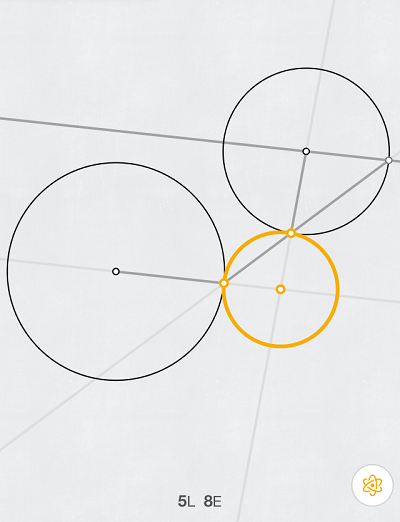
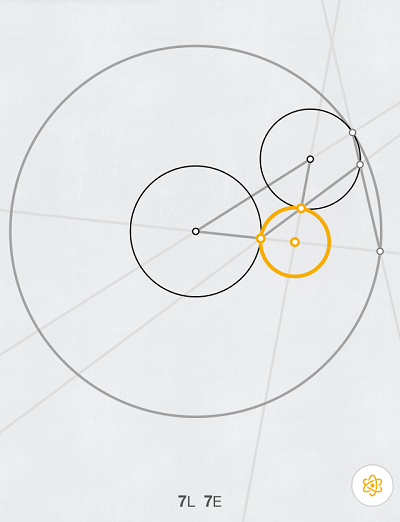
Update 13.2 7E solution, add English version of readme.

diff --git a/README.md b/README.md
@@ -1,3 +1,5 @@
+# 中文说明
+
 对应 Apple app store 里的 Euclidea 游戏。
 
 本Repo页面维护团队：  
@@ -12,11 +14,38 @@
 - [v1版本链接(全最优解更新完成)](https://mathsfans.github.io/Euclidea/v1/)  
 
 重要解法更新：
+- (2017-11-30) 13.2 7E新纪录解法。 
 - (2017-10-04) 按照iOS 3.37版重新排列题目顺序。 
 - (2017-07-10) 2.8 5E新纪录解法。 
-- (2017-07-02) 按照最新iOS版本更新v1所有题号以及全部最优解法。  
+- (2017-07-02) 按照iOS 3.37版更新v1所有题号以及全部最优解法。  
 - (2017-04-12) 11.3 10E新纪录解法。  
 - (2017-02-28) 8.8 5E新纪录解法。  
 - (2017-01-19) 5.5 5E新纪录解法。  
 - (2016-12-02) 7.3 3L新纪录解法。  
 - (2016-12-02) v1版本解法更正，文字描述更新。  
+
+---
+
+# ENGLISH
+
+This repo provides a full collection of optimal solutions for the iOS geometric game "Euclidea".
+
+This repo is mainly maintained by
+- [@Tairraos](https://github.com/tairraos)  
+- [@gsdevcn](https://github.com/gsdevcn)  
+- [@negiizhao](https://github.com/negiizhao) 
+
+The solution pages:
+- [v2 (better UI, solutions updating...)](https://mathsfans.github.io/Euclidea/)  
+- [v1 (all optimal solutions, although descriptions are in Chinese)](https://mathsfans.github.io/Euclidea/v1/)  
+
+Version history：
+- (2017-11-30) New record update: 13.2 7E. 
+- (2017-10-04) Reorder v1 all problems according to iOS v3.37. 
+- (2017-07-10) New record update: 2.8 5E. 
+- (2017-07-02) Reorder v1 all problems and optimal solutions according to iOS v3.30.  
+- (2017-04-12) New record update: 11.3 10E.  
+- (2017-02-28) New record update: 8.8 5E.  
+- (2017-01-19) New record update: 5.5 5E.  
+- (2016-12-02) New record update: 7.3 3L.  
+- (2016-12-02) v1 corrections and descriptions updated。  

diff --git a/v1/Euclidea3.md b/v1/Euclidea3.md
@@ -534,9 +534,9 @@
 解：[3L，角平分线加上平行线。](solving/d13.1.1.png)  
 解：[8E，求角平分线的另一个思路同时利用位似的思想。](solving/d13.1.2.png)  
 
-- 13.2 切于两圆的圆 *4L 8E 2V* ⭐  
+- 13.2 切于两圆的圆 *4L 7E 2V* ⭐  
 解：[4L，利用12.1 4L类似的技巧。](solving/d13.2.1.png)  
-解：[8E，利用12.1 9E类似的技巧。](solving/d13.2.2.png)  
+解：[7E，利用12.1 9E类似的技巧，加上一些位似优化。](solving/d13.2.2.png)  
 注：[2V，如图，作出全部两个解得到隐藏星星。](solving/d13.2.3.png)  
 
 - 13.3 由斜边上内切圆的切点确定的直角三角形 *6L 9E 2V* ⭐  
